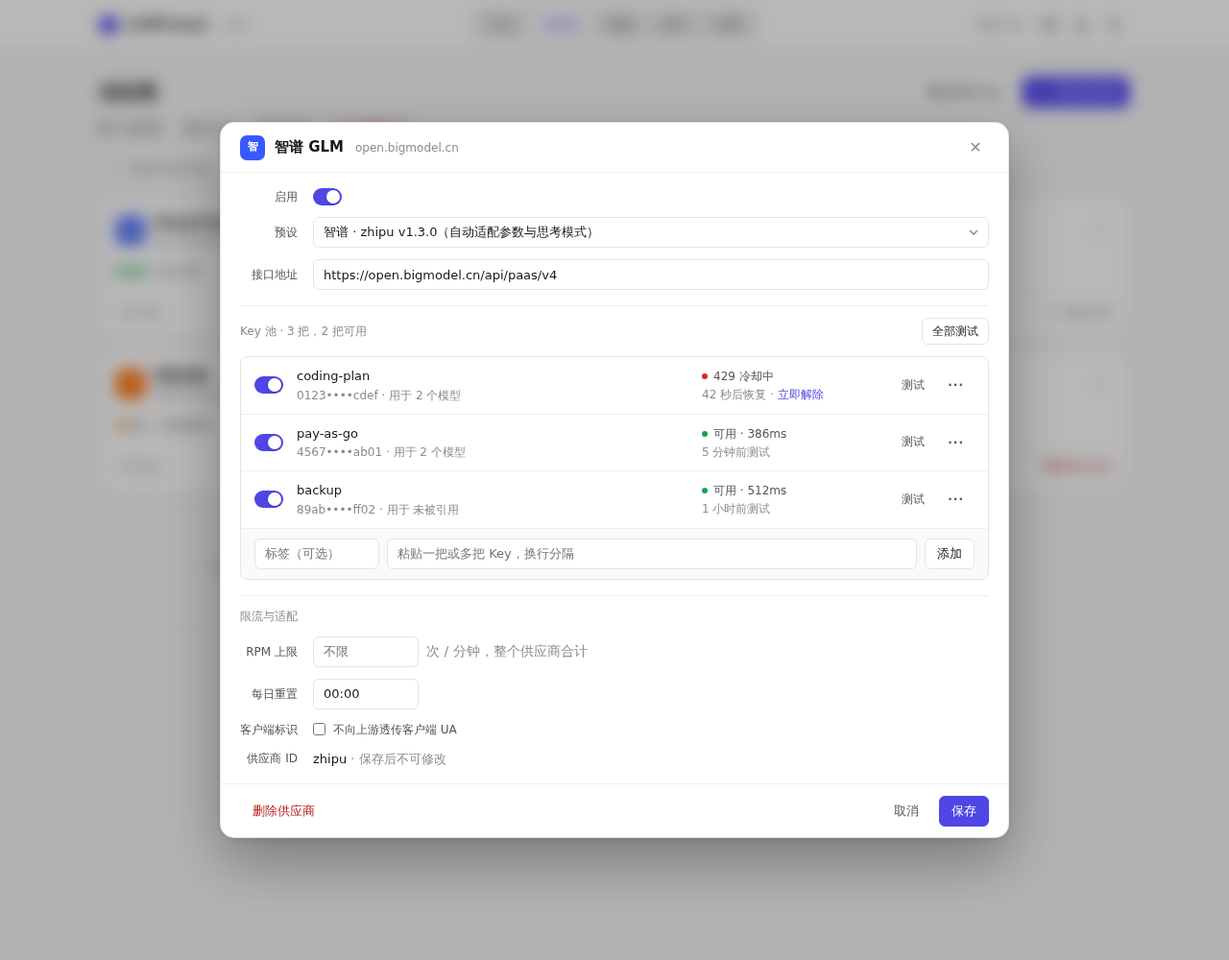
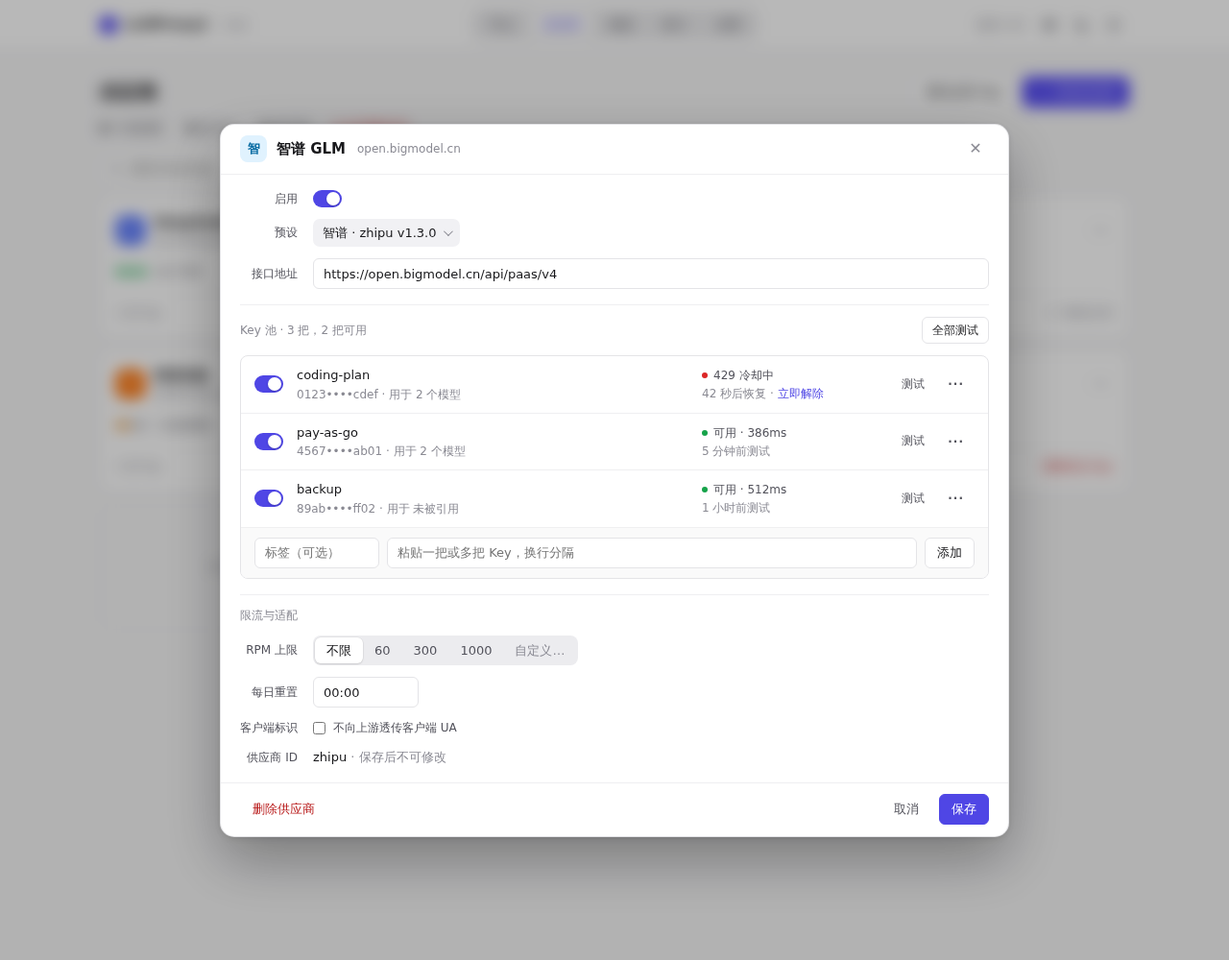
docs(ui): UI 规范 v2.1——首字头像、分组卡片、分段选择+自定义、胶囊下拉、悬停说明、验收清单

diff --git a/docs/ui-v2/mockups/01-providers.html b/docs/ui-v2/mockups/01-providers.html
@@ -2,20 +2,18 @@
 <header class="top"><div class="top-in"><div class="brand"><i></i>LLMProxy2<small>Hub</small></div>
 <nav class="tabs"><a class="">节点</a><a class="on">供应商</a><a class="">模型</a><a class="">统计</a><a class="">设置</a></nav>
 <div class="top-r"><span class="muted" style="margin-right:6px;font-size:12px">配置 v42</span><span class="ib"><svg viewBox="0 0 16 16" class=""><path d="M1.5 8s2.5-5 6.5-5 6.5 5 6.5 5-2.5 5-6.5 5S1.5 8 1.5 8z"/><circle cx="8" cy="8" r="2"/></svg></span><span class="ib"><svg viewBox="0 0 16 16" class=""><path d="M13 9.5A5.5 5.5 0 0 1 6.5 3a5.5 5.5 0 1 0 6.5 6.5z"/></svg></span><span class="ib"><svg viewBox="0 0 16 16" class=""><path d="M6 2.5H3.5v11H6M10 5l3 3-3 3M13 8H6"/></svg></span></div></div></header>
-<main class="wrap"><div class="ph"><h1>供应商<span class="cnt">12 个 · 22 把 Key · 19 把可用</span></h1><div class="acts"><span class="btn">测试全部 Key</span><span class="btn pri"><svg viewBox="0 0 16 16" class=""><path d="M8 3v10M3 8h10"/></svg>添加供应商</span></div></div>
-<div class="toolbar"><div class="search" style="width:340px"><svg viewBox="0 0 16 16" class=""><circle cx="7" cy="7" r="4.5"/><path d="M10.5 10.5L14 14"/></svg><input class="in" placeholder="搜索名称、地址或 Key 标签"><span class="kbd" style="position:absolute;right:8px;top:8px">/</span></div>
-<div class="filters"><span class="chip on">全部<b>12</b></span><span class="chip">需要处理<b>2</b></span><span class="chip">已停用<b>1</b></span></div>
-<span class="note" style="margin-left:auto">排序：问题优先 ▾</span></div>
-<div class="list"><div class="grp-h">需要处理 · 2</div><div class="row pv "><div><div class="nm"><span class="logo" style="background:#3859ff">智</span>智谱 GLM</div><div class="sub" style="padding-left:28px"><span class="why">coding-plan 429 冷却中，42 秒后恢复</span></div></div>
-<div class="kh"><span class="kdots"><i class="err"></i><i class="ok"></i><i class="ok"></i></span>2/3 可用</div><span class="st warn">部分异常</span><span class="cnt">2 个模型</span><svg viewBox="0 0 14 14" class="go"><path d="M5 3l4 4-4 4"/></svg></div><div class="row pv "><div><div class="nm"><span class="logo" style="background:#18181b">K</span>Kimi</div><div class="sub" style="padding-left:28px"><span class="why">还没有 Key，引用它的模型不会生效</span></div></div>
-<div class="kh"><span class="kdots"><i></i></span>0 把</div><span class="st err">无 Key</span><span class="cnt">0 个模型</span><svg viewBox="0 0 14 14" class="go"><path d="M5 3l4 4-4 4"/></svg></div><div class="grp-h">正常 · 9</div><div class="row pv "><div><div class="nm"><span class="logo" style="background:#ff6a00">百</span>阿里百炼</div><div class="sub" style="padding-left:28px">dashscope.aliyuncs.com</div></div>
-<div class="kh"><span class="kdots"><i class="ok"></i><i class="off"></i></span>1/2 可用</div><span class="st ok">正常</span><span class="cnt">2 个模型</span><svg viewBox="0 0 14 14" class="go"><path d="M5 3l4 4-4 4"/></svg></div><div class="row pv "><div><div class="nm"><span class="logo" style="background:#4d6bfe">D</span>DeepSeek</div><div class="sub" style="padding-left:28px">api.deepseek.com</div></div>
-<div class="kh"><span class="kdots"><i class="ok"></i><i class="ok"></i></span>2/2 可用</div><span class="st ok">正常</span><span class="cnt">3 个模型</span><svg viewBox="0 0 14 14" class="go"><path d="M5 3l4 4-4 4"/></svg></div><div class="row pv "><div><div class="nm"><span class="logo" style="background:#3370ff">火</span>火山方舟</div><div class="sub" style="padding-left:28px">ark.cn-beijing.volces.com</div></div>
-<div class="kh"><span class="kdots"><i class="ok"></i><i class="ok"></i><i class="ok"></i><i class="ok"></i></span>4/4 可用</div><span class="st ok">正常</span><span class="cnt">5 个模型</span><svg viewBox="0 0 14 14" class="go"><path d="M5 3l4 4-4 4"/></svg></div><div class="row pv "><div><div class="nm"><span class="logo" style="background:#7c3aed">硅</span>硅基流动</div><div class="sub" style="padding-left:28px">api.siliconflow.cn/v1</div></div>
-<div class="kh"><span class="kdots"><i class="ok"></i></span>1/1 可用</div><span class="st ok">正常</span><span class="cnt">1 个模型</span><svg viewBox="0 0 14 14" class="go"><path d="M5 3l4 4-4 4"/></svg></div><div class="row pv "><div><div class="nm"><span class="logo" style="background:#18181b">K</span>Kimi Code</div><div class="sub" style="padding-left:28px">api.kimi.com/coding</div></div>
-<div class="kh"><span class="kdots"><i class="ok"></i></span>1/1 可用</div><span class="st ok">正常</span><span class="cnt">1 个模型</span><svg viewBox="0 0 14 14" class="go"><path d="M5 3l4 4-4 4"/></svg></div><div class="row pv "><div><div class="nm"><span class="logo" style="background:#e11d48">M</span>MiniMax</div><div class="sub" style="padding-left:28px">api.minimaxi.com/anthropic</div></div>
-<div class="kh"><span class="kdots"><i class="ok"></i><i class="ok"></i></span>2/2 可用</div><span class="st ok">正常</span><span class="cnt">2 个模型</span><svg viewBox="0 0 14 14" class="go"><path d="M5 3l4 4-4 4"/></svg></div><div class="row pv "><div><div class="nm"><span class="logo" style="background:#0ea5e9">阶</span>阶跃星辰</div><div class="sub" style="padding-left:28px">api.stepfun.com/v1</div></div>
-<div class="kh"><span class="kdots"><i class="ok"></i></span>1/1 可用</div><span class="st ok">正常</span><span class="cnt">1 个模型</span><svg viewBox="0 0 14 14" class="go"><path d="M5 3l4 4-4 4"/></svg></div><div class="row pv "><div><div class="nm"><span class="logo" style="background:#111827">Z</span>Z.ai</div><div class="sub" style="padding-left:28px">api.z.ai/api/paas/v4</div></div>
-<div class="kh"><span class="kdots"><i class="ok"></i><i class="ok"></i></span>2/2 可用</div><span class="st ok">正常</span><span class="cnt">2 个模型</span><svg viewBox="0 0 14 14" class="go"><path d="M5 3l4 4-4 4"/></svg></div><div class="row pv "><div><div class="nm"><span class="logo" style="background:#f55036">G</span>Groq</div><div class="sub" style="padding-left:28px">api.groq.com/openai/v1</div></div>
-<div class="kh"><span class="kdots"><i class="ok"></i></span>1/1 可用</div><span class="st ok">正常</span><span class="cnt">0 个模型</span><svg viewBox="0 0 14 14" class="go"><path d="M5 3l4 4-4 4"/></svg></div><div class="grp-h">已停用 · 1</div><div class="row pv off"><div><div class="nm"><span class="logo" style="background:#6b7280">O</span>OpenRouter</div><div class="sub" style="padding-left:28px">openrouter.ai/api/v1</div></div>
+<main class="wrap"><div class="ph"><h1>供应商<span class="cnt">9 个 · 17 把 Key · 14 把可用</span></h1><div class="acts"><span class="btn">测试全部 Key</span><span class="btn pri"><svg viewBox="0 0 16 16" class=""><path d="M8 3v10M3 8h10"/></svg>添加供应商</span></div></div>
+<div class="toolbar"><div class="search" style="width:340px"><svg viewBox="0 0 16 16" class=""><circle cx="7" cy="7" r="4.5"/><path d="M10.5 10.5L14 14"/></svg><input class="in" placeholder="搜索名称、地址或 Key 标签"></div>
+<div class="segp" style="margin-left:auto"><span class="on">全部 9</span><span>需要处理 2</span><span>已停用 1</span></div></div>
+<div class="glabel">需要处理 · 2</div><div class="gcard"><div class="row pv pv2"><div class="nm"><span class="av av5 ">智</span><div class="meta"><span>智谱 GLM</span><span class="sub"><span class="why">coding-plan 429 冷却中，42 秒后恢复</span></span></div></div>
+<div class="kh"><span class="kdots"><i class="err"></i><i class="ok"></i><i class="ok"></i></span>2/3 可用</div><span class="st warn">部分异常</span><span class="cnt">2 个模型</span><svg viewBox="0 0 14 14" class="go"><path d="M5 3l4 4-4 4"/></svg></div><div class="row pv pv2"><div class="nm"><span class="av av7 ">K</span><div class="meta"><span>Kimi</span><span class="sub"><span class="why">还没有 Key，引用它的模型不会生效</span></span></div></div>
+<div class="kh"><span class="kdots"><i></i></span>0 把</div><span class="st err">无 Key</span><span class="cnt">0 个模型</span><svg viewBox="0 0 14 14" class="go"><path d="M5 3l4 4-4 4"/></svg></div></div>
+<div class="glabel">正常 · 6</div><div class="gcard"><div class="row pv pv2"><div class="nm"><span class="av av8 ">阿</span><div class="meta"><span>阿里百炼</span><span class="sub">dashscope.aliyuncs.com</span></div></div>
+<div class="kh"><span class="kdots"><i class="ok"></i><i class="off"></i></span>1/2 可用</div><span class="st ok">正常</span><span class="cnt">2 个模型</span><svg viewBox="0 0 14 14" class="go"><path d="M5 3l4 4-4 4"/></svg></div><div class="row pv pv2"><div class="nm"><span class="av av6 ">D</span><div class="meta"><span>DeepSeek</span><span class="sub">api.deepseek.com</span></div></div>
+<div class="kh"><span class="kdots"><i class="ok"></i><i class="ok"></i></span>2/2 可用</div><span class="st ok">正常</span><span class="cnt">3 个模型</span><svg viewBox="0 0 14 14" class="go"><path d="M5 3l4 4-4 4"/></svg></div><div class="row pv pv2"><div class="nm"><span class="av av1 ">火</span><div class="meta"><span>火山方舟</span><span class="sub">ark.cn-beijing.volces.com</span></div></div>
+<div class="kh"><span class="kdots"><i class="ok"></i><i class="ok"></i><i class="ok"></i><i class="ok"></i></span>4/4 可用</div><span class="st ok">正常</span><span class="cnt">5 个模型</span><svg viewBox="0 0 14 14" class="go"><path d="M5 3l4 4-4 4"/></svg></div><div class="row pv pv2"><div class="nm"><span class="av av6 ">硅</span><div class="meta"><span>硅基流动</span><span class="sub">api.siliconflow.cn/v1</span></div></div>
+<div class="kh"><span class="kdots"><i class="ok"></i></span>1/1 可用</div><span class="st ok">正常</span><span class="cnt">1 个模型</span><svg viewBox="0 0 14 14" class="go"><path d="M5 3l4 4-4 4"/></svg></div><div class="row pv pv2"><div class="nm"><span class="av av2 ">M</span><div class="meta"><span>MiniMax</span><span class="sub">api.minimaxi.com/anthropic</span></div></div>
+<div class="kh"><span class="kdots"><i class="ok"></i><i class="ok"></i></span>2/2 可用</div><span class="st ok">正常</span><span class="cnt">2 个模型</span><svg viewBox="0 0 14 14" class="go"><path d="M5 3l4 4-4 4"/></svg></div><div class="row pv pv2"><div class="nm"><span class="av av7 ">Z</span><div class="meta"><span>Z.ai</span><span class="sub">api.z.ai/api/paas/v4</span></div></div>
+<div class="kh"><span class="kdots"><i class="ok"></i><i class="ok"></i></span>2/2 可用</div><span class="st ok">正常</span><span class="cnt">2 个模型</span><svg viewBox="0 0 14 14" class="go"><path d="M5 3l4 4-4 4"/></svg></div></div>
+<div class="glabel">已停用 · 1</div><div class="gcard"><div class="row pv pv2 off"><div class="nm"><span class="av av3 off">O</span><div class="meta"><span>OpenRouter</span><span class="sub">openrouter.ai/api/v1</span></div></div>
 <div class="kh"><span class="kdots"><i class="off"></i></span>1 把</div><span class="st off">已停用</span><span class="cnt">0 个模型</span><svg viewBox="0 0 14 14" class="go"><path d="M5 3l4 4-4 4"/></svg></div></div></main></body></html>

diff --git a/docs/ui-v2/mockups/11-settings.html b/docs/ui-v2/mockups/11-settings.html
@@ -1,21 +1,24 @@
-<!doctype html><html lang="zh-CN"><head><meta charset="utf-8"><title>设置</title><link rel="stylesheet" href="v2.css"></head><body>
+<!doctype html><html lang="zh-CN"><head><meta charset="utf-8"><title>设置</title><link rel="stylesheet" href="v2.css"></head><body class="">
 <header class="top"><div class="top-in"><div class="brand"><i></i>LLMProxy2<small>Hub</small></div>
 <nav class="tabs"><a class="">节点</a><a class="">供应商</a><a class="">模型</a><a class="">统计</a><a class="on">设置</a></nav>
-<div class="top-r"><span class="mono muted" style="margin-right:6px">v42</span><span class="ib"><svg viewBox="0 0 16 16" class=""><path d="M1.5 8s2.5-5 6.5-5 6.5 5 6.5 5-2.5 5-6.5 5S1.5 8 1.5 8z"/><circle cx="8" cy="8" r="2"/></svg></span><span class="ib"><svg viewBox="0 0 16 16" class=""><path d="M13 9.5A5.5 5.5 0 0 1 6.5 3a5.5 5.5 0 1 0 6.5 6.5z"/></svg></span><span class="ib"><svg viewBox="0 0 16 16" class=""><path d="M6 2.5H3.5v11H6M10 5l3 3-3 3M13 8H6"/></svg></span></div></div></header>
-<main class="wrap"><div class="ph"><h1>设置</h1></div>
-<div class="set"><nav><a class="on">接入</a><a>路由与冷却</a><a>并发护栏</a><a>模型目录</a><a>备份与迁移</a></nav><div>
-<div class="grp"><h2>接入</h2><div class="list">
-<div class="srow"><div><div class="t">客户端密钥</div><div class="d">所有节点的 /v1/* 共用这一把；修改后旧密钥立即失效</div></div><div class="c"><input class="in mono w" value="sk-client-••••••••a91c"><span class="btn">生成</span></div></div>
-</div><div class="note" style="margin-top:8px">保存后在节点下次同步时生效（最长 24 小时，或在节点页手动触发）。</div></div>
-<div class="grp"><h2>路由与冷却</h2><div class="list">
-<div class="srow"><div><div class="t">默认分流策略</div><div class="d">新模型的默认值，可在模型里单独覆盖</div></div><div class="c"><div class="sel in" style="width:200px">会话粘性优先</div></div></div>
-<div class="srow"><div><div class="t">首字超时</div><div class="d">上游迟迟不出首字时换下一个来源</div></div><div class="c"><input class="in" value="120"><span class="muted">秒</span></div></div>
-<div class="srow"><div><div class="t">429 冷却</div><div class="d">被限流的 Key 暂停调度</div></div><div class="c"><input class="in" value="15"><span class="muted">秒</span></div></div>
-<div class="srow"><div><div class="t">5xx 冷却</div><div class="d">上游服务端错误后暂停</div></div><div class="c"><input class="in" value="30"><span class="muted">秒</span></div></div>
-<div class="srow"><div><div class="t">网络超时冷却</div><div class="d">连接或读取超时后暂停</div></div><div class="c"><input class="in" value="15"><span class="muted">秒</span></div></div>
-<div class="srow"><div><div class="t">401 / 403 冷却</div><div class="d">鉴权失败后封禁，0 = 不封禁</div></div><div class="c"><input class="in" value="86400"><span class="muted">秒</span></div></div>
-</div></div>
-<div class="grp"><h2>模型目录</h2><div class="list">
-<div class="srow"><div><div class="t">models.dev 目录</div><div class="d">1,286 个模型 · 更新于 2026-11-27 14:02</div></div><div class="c"><span class="btn">立即更新</span></div></div>
-</div></div></div></div>
+<div class="top-r"><span class="muted" style="margin-right:6px;font-size:12px">配置 v42</span><span class="ib"><svg viewBox="0 0 16 16" class=""><path d="M1.5 8s2.5-5 6.5-5 6.5 5 6.5 5-2.5 5-6.5 5S1.5 8 1.5 8z"/><circle cx="8" cy="8" r="2"/></svg></span><span class="ib"><svg viewBox="0 0 16 16" class=""><path d="M13 9.5A5.5 5.5 0 0 1 6.5 3a5.5 5.5 0 1 0 6.5 6.5z"/></svg></span><span class="ib"><svg viewBox="0 0 16 16" class=""><path d="M6 2.5H3.5v11H6M10 5l3 3-3 3M13 8H6"/></svg></span></div></div></header>
+<main class="wrap"><div class="ph"><h1>设置</h1></div><div class="set2"><nav><a class="on">接入</a><a>路由与冷却</a><a>并发护栏</a><a>模型目录</a><a>备份与迁移</a></nav><div>
+<div class="glabel">接入</div><div class="gcard">
+<div class="srow2"><div class="t">客户端密钥<span class="qi">?</span></div><div class="c"><input class="in" style="width:300px" value="sk-client-••••••••a91c"><span class="btn">生成</span></div></div>
+</div>
+<div class="glabel">路由与冷却</div><div class="gcard">
+<div class="srow2"><div class="t">默认分流策略<span class="qi">?</span></div><div class="c"><span class="pillsel">会话粘性优先</span></div></div>
+<div class="srow2"><div class="t">首字超时<span class="qi">?</span></div><div class="c"><div class="segp"><span class="">60 秒</span><span class="on">120 秒</span><span class="">300 秒</span><span class="cus">自定义…</span></div></div></div>
+<div class="srow2"><div class="t">429 限流冷却<span class="qi">?</span></div><div class="c"><div class="segp"><span class="on">15 秒</span><span class="">30 秒</span><span class="">60 秒</span><span class="cus">自定义…</span></div></div></div>
+<div class="srow2"><div class="t">5xx 冷却<span class="qi">?</span></div><div class="c"><div class="segp"><span class="">15 秒</span><span class="on">30 秒</span><span class="">60 秒</span><span class="cus">自定义…</span></div></div></div>
+<div class="srow2"><div class="t">网络超时冷却<span class="qi">?</span></div><div class="c"><div class="segp"><span class="on">15 秒</span><span class="">30 秒</span><span class="">60 秒</span><span class="cus">自定义…</span></div></div></div>
+<div class="srow2"><div class="t">401 / 403 封禁<span class="qi">?</span></div><div class="c"><div class="segp"><span class="">不封禁</span><span class="">1 小时</span><span class="on">1 天</span><span class="cus">自定义…</span></div></div></div>
+</div>
+<div class="glabel">并发护栏 · Lite 节点忽略</div><div class="gcard">
+<div class="srow2"><div class="t">OCR 预读并发<span class="qi">?</span></div><div class="c"><div class="segp"><span class="">2</span><span class="on">4</span><span class="">8</span><span class="cus">自定义…</span></div></div></div>
+<div class="srow2"><div class="t">固定通道并发<span class="qi">?</span></div><div class="c"><div class="segp"><span class="">8</span><span class="on">16</span><span class="">32</span><span class="cus">自定义…</span></div></div></div>
+</div>
+<div class="glabel">模型目录</div><div class="gcard">
+<div class="srow2"><div class="t">models.dev 目录</div><div class="c"><span class="note">1,286 个模型 · 2026-11-27 更新</span><span class="btn">立即更新</span></div></div>
+</div></div></div>
 <div class="savebar">2 项未保存<span class="btn">放弃</span><span class="btn pri">保存</span></div></main></body></html>

diff --git a/docs/ui-v2/mockups/02-provider-dialog.html b/docs/ui-v2/mockups/02-provider-dialog.html
@@ -11,9 +11,9 @@
 <div class="k"><span class="kdots"><i class="ok"></i></span>1/1 可用</div><div class="f"><span>1 把 Key</span><span>1 个模型在用</span></div></div><div class="pcard "><div class="h"><span class="logo" style="background:#ff6a00">百</span><div class="t"><div class="n">阿里百炼</div><div class="u">dashscope.aliyuncs.com</div></div><span class="ib more" style="width:24px;height:24px">···</span></div>
 <div class="k"><span class="kdots"><i class="warn"></i><i class="off"></i></span>1 把未测试</div><div class="f"><span>2 把 Key</span><span>2 个模型在用</span></div></div><div class="pcard off"><div class="h"><span class="logo" style="background:#6b7280">O</span><div class="t"><div class="n">OpenRouter</div><div class="u">openrouter.ai/api/v1</div></div><span class="ib more" style="width:24px;height:24px">···</span></div>
 <div class="k"><span class="kdots"><i class="off"></i></span>已停用</div><div class="f"><span>1 把 Key</span><span>0 个模型在用</span></div></div><div class="pcard alert"><div class="h"><span class="logo" style="background:#18181b">K</span><div class="t"><div class="n">Kimi</div><div class="u">api.moonshot.cn/v1</div></div><span class="ib more" style="width:24px;height:24px">···</span></div>
-<div class="k"><span class="kdots"><i></i></span>还没有 Key</div><div class="f"><span>0 把 Key</span><span class="w">需要添加 Key</span></div></div><div class="pcard add"><svg viewBox="0 0 16 16" class=""><path d="M8 3v10M3 8h10"/></svg> 从预设添加供应商</div></div><div class="modal"><div class="dialog roomy"><div class="dh"><span class="logo" style="background:#3859ff;width:26px;height:26px;border-radius:7px">智</span><b>智谱 GLM</b><span class="note">open.bigmodel.cn</span><span class="x">✕</span></div><div class="db">
+<div class="k"><span class="kdots"><i></i></span>还没有 Key</div><div class="f"><span>0 把 Key</span><span class="w">需要添加 Key</span></div></div><div class="pcard add"><svg viewBox="0 0 16 16" class=""><path d="M8 3v10M3 8h10"/></svg> 从预设添加供应商</div></div><div class="modal"><div class="dialog roomy"><div class="dh"><span class="av av5">智</span><b>智谱 GLM</b><span class="note">open.bigmodel.cn</span><span class="x">✕</span></div><div class="db">
 <label>启用</label><span class="sw on" style="justify-self:start"></span>
-<label>预设</label><div class="sel in">智谱 · zhipu v1.3.0（自动适配参数与思考模式）</div>
+<label>预设</label><span class="pillsel" style="justify-self:start">智谱 · zhipu v1.3.0</span>
 <label>接口地址</label><input class="in" value="https://open.bigmodel.cn/api/paas/v4">
 <div class="hr">Key 池 · 3 把，2 把可用<span class="btn sm">全部测试</span></div>
 <div class="full"><div class="klist">
@@ -25,7 +25,7 @@
 <div class="st2"><span class="st ok">可用 · 512ms</span><div class="s">1 小时前测试</div></div><div class="a"><span class="btn sm ghost">测试</span><span class="btn sm ghost more">···</span></div></div>
 <div class="kadd"><input class="in" style="width:130px" placeholder="标签（可选）"><input class="in" placeholder="粘贴一把或多把 Key，换行分隔"><span class="btn">添加</span></div></div></div>
 <div class="hr">限流与适配</div>
-<label>RPM 上限</label><div class="inline"><input class="in" style="width:110px" placeholder="不限"><span class="muted">次 / 分钟，整个供应商合计</span></div>
+<label>RPM 上限</label><div class="inline"><div class="segp"><span class="on">不限</span><span>60</span><span>300</span><span>1000</span><span class="cus">自定义…</span></div></div>
 <label>每日重置</label><input class="in" style="width:110px" value="00:00">
 <label>客户端标识</label><label class="inline" style="text-align:left"><input type="checkbox"> 不向上游透传客户端 UA</label>
 <label>供应商 ID</label><div class="val">zhipu <span class="muted">· 保存后不可修改</span></div></div><div class="df"><span class="btn ghost danger">删除供应商</span><span class="sp"></span><span class="btn ghost">取消</span><span class="btn pri">保存</span></div></div></div></main></body></html>

diff --git a/docs/ui-v2/mockups/12-settings-tooltip.html b/docs/ui-v2/mockups/12-settings-tooltip.html
@@ -1,0 +1,24 @@
+<!doctype html><html lang="zh-CN"><head><meta charset="utf-8"><title>设置</title><link rel="stylesheet" href="v2.css"></head><body class="">
+<header class="top"><div class="top-in"><div class="brand"><i></i>LLMProxy2<small>Hub</small></div>
+<nav class="tabs"><a class="">节点</a><a class="">供应商</a><a class="">模型</a><a class="">统计</a><a class="on">设置</a></nav>
+<div class="top-r"><span class="muted" style="margin-right:6px;font-size:12px">配置 v42</span><span class="ib"><svg viewBox="0 0 16 16" class=""><path d="M1.5 8s2.5-5 6.5-5 6.5 5 6.5 5-2.5 5-6.5 5S1.5 8 1.5 8z"/><circle cx="8" cy="8" r="2"/></svg></span><span class="ib"><svg viewBox="0 0 16 16" class=""><path d="M13 9.5A5.5 5.5 0 0 1 6.5 3a5.5 5.5 0 1 0 6.5 6.5z"/></svg></span><span class="ib"><svg viewBox="0 0 16 16" class=""><path d="M6 2.5H3.5v11H6M10 5l3 3-3 3M13 8H6"/></svg></span></div></div></header>
+<main class="wrap"><div class="ph"><h1>设置</h1></div><div class="set2"><nav><a class="on">接入</a><a>路由与冷却</a><a>并发护栏</a><a>模型目录</a><a>备份与迁移</a></nav><div>
+<div class="glabel">接入</div><div class="gcard">
+<div class="srow2"><div class="t">客户端密钥<span class="qi">?</span></div><div class="c"><input class="in" style="width:300px" value="sk-client-••••••••a91c"><span class="btn">生成</span></div></div>
+</div>
+<div class="glabel">路由与冷却</div><div class="gcard">
+<div class="srow2"><div class="t">默认分流策略<span class="qi">?</span></div><div class="c"><span class="pillsel">会话粘性优先</span></div></div>
+<div class="srow2"><div class="t">首字超时<span class="qi">?</span></div><div class="c"><div class="segp"><span class="">60 秒</span><span class="on">120 秒</span><span class="">300 秒</span><span class="cus">自定义…</span></div></div></div>
+<div class="tipwrap"><div class="srow2"><div class="t">429 限流冷却<span class="qi">?</span></div><div class="c"><div class="segp"><span class="on">15 秒</span><span class="">30 秒</span><span class="">60 秒</span><span class="cus">自定义…</span></div></div></div><div class="tip" style="left:120px;top:44px"><b>429 限流冷却</b>Key 被上游限流（HTTP 429）后暂停调度的时长。期间同一模型改用其它 Key 或来源；到期自动恢复，也可以在供应商里当场解除。</div></div>
+<div class="srow2"><div class="t">5xx 冷却<span class="qi">?</span></div><div class="c"><div class="segp"><span class="">15 秒</span><span class="on">30 秒</span><span class="">60 秒</span><span class="cus">自定义…</span></div></div></div>
+<div class="srow2"><div class="t">网络超时冷却<span class="qi">?</span></div><div class="c"><div class="segp"><span class="on">15 秒</span><span class="">30 秒</span><span class="">60 秒</span><span class="cus">自定义…</span></div></div></div>
+<div class="srow2"><div class="t">401 / 403 封禁<span class="qi">?</span></div><div class="c"><div class="segp"><span class="">不封禁</span><span class="">1 小时</span><span class="on">1 天</span><span class="cus">自定义…</span></div></div></div>
+</div>
+<div class="glabel">并发护栏 · Lite 节点忽略</div><div class="gcard">
+<div class="srow2"><div class="t">OCR 预读并发<span class="qi">?</span></div><div class="c"><div class="segp"><span class="">2</span><span class="on">4</span><span class="">8</span><span class="cus">自定义…</span></div></div></div>
+<div class="srow2"><div class="t">固定通道并发<span class="qi">?</span></div><div class="c"><div class="segp"><span class="">8</span><span class="on">16</span><span class="">32</span><span class="cus">自定义…</span></div></div></div>
+</div>
+<div class="glabel">模型目录</div><div class="gcard">
+<div class="srow2"><div class="t">models.dev 目录</div><div class="c"><span class="note">1,286 个模型 · 2026-11-27 更新</span><span class="btn">立即更新</span></div></div>
+</div></div></div>
+</main></body></html>

diff --git a/docs/ui-v2/mockups/v2.css b/docs/ui-v2/mockups/v2.css
@@ -279,3 +279,47 @@ details.fold .fb>label{font-size:12px;color:var(--fg-2);text-align:right;white-s
 .kchips .ord{font-size:11px;background:var(--accent);color:#fff;border-radius:3px;padding:0 4px}
 .secline{grid-column:1/-1;font-size:12px;color:var(--muted);font-weight:500;border-top:1px solid var(--line-2);padding-top:12px;margin-top:2px}
 .secline:first-child{border-top:0;padding-top:0;margin-top:0}
+/* ---- round 7: avatar palette, magpie groups, segmented, pill select, tooltip ---- */
+:root{
+ --av-1-bg:#e0e7ff;--av-1-fg:#4338ca; --av-2-bg:#dcfce7;--av-2-fg:#15803d;
+ --av-3-bg:#ffedd5;--av-3-fg:#c2410c; --av-4-bg:#fce7f3;--av-4-fg:#be185d;
+ --av-5-bg:#e0f2fe;--av-5-fg:#0369a1; --av-6-bg:#f3e8ff;--av-6-fg:#7e22ce;
+ --av-7-bg:#fef9c3;--av-7-fg:#a16207; --av-8-bg:#ccfbf1;--av-8-fg:#0f766e;
+ --seg-track:#ececef;--pill:#f1f1f4;
+}
+.av{width:28px;height:28px;border-radius:8px;display:grid;place-items:center;font-size:13px;font-weight:600;flex:none}
+.av.sm{width:22px;height:22px;border-radius:6px;font-size:11px}
+.av.off{filter:grayscale(1);opacity:.6}
+.av1{background:var(--av-1-bg);color:var(--av-1-fg)}.av2{background:var(--av-2-bg);color:var(--av-2-fg)}
+.av3{background:var(--av-3-bg);color:var(--av-3-fg)}.av4{background:var(--av-4-bg);color:var(--av-4-fg)}
+.av5{background:var(--av-5-bg);color:var(--av-5-fg)}.av6{background:var(--av-6-bg);color:var(--av-6-fg)}
+.av7{background:var(--av-7-bg);color:var(--av-7-fg)}.av8{background:var(--av-8-bg);color:var(--av-8-fg)}
+.glabel{font-size:12px;color:var(--muted);margin:18px 4px 8px;display:flex;gap:6px}
+.glabel:first-child{margin-top:0}
+.gcard{background:var(--surface);border:1px solid var(--line);border-radius:12px;overflow:hidden}
+.gcard .row{border-top:1px solid var(--line-2)}.gcard .row:first-child{border-top:0}
+.row.pv2{grid-template-columns:minmax(0,1fr) 160px 104px 96px 20px;padding:12px 18px}
+.row.pv2 .nm{gap:12px}
+.row.pv2 .meta{display:flex;flex-direction:column;min-width:0}
+.row.pv2 .sub{padding-left:0}
+.segp{display:inline-flex;background:var(--seg-track);border-radius:8px;padding:2px;gap:0}
+.segp span{font-size:13px;padding:4px 12px;border-radius:6px;color:var(--fg-2);white-space:nowrap}
+.segp span.on{background:var(--surface);color:var(--fg);box-shadow:0 1px 2px rgba(0,0,0,.12),0 0 0 .5px rgba(0,0,0,.06)}
+.segp span.cus{color:var(--muted)}
+.pillsel{display:inline-flex;align-items:center;gap:6px;background:var(--pill);border-radius:7px;padding:5px 10px;font-size:13px;color:var(--fg)}
+.pillsel:after{content:"";width:6px;height:6px;border:solid var(--muted);border-width:0 1.5px 1.5px 0;transform:rotate(45deg) translateY(-2px);margin-left:2px}
+.srow2{display:flex;align-items:center;gap:16px;padding:14px 20px;border-top:1px solid var(--line-2);min-height:56px}
+.srow2:first-child{border-top:0}
+.srow2 .t{flex:1;font-size:14px;display:flex;align-items:center;gap:6px}
+.srow2 .c{display:flex;gap:8px;align-items:center}
+.qi{width:15px;height:15px;border-radius:50%;border:1px solid var(--faint);color:var(--muted);font-size:10px;display:inline-grid;place-items:center}
+.tipwrap{position:relative}
+.tip{position:absolute;z-index:9;width:340px;background:var(--surface);border-radius:10px;box-shadow:var(--pop-shadow);padding:10px 12px;font-size:12px;line-height:1.6;color:var(--fg-2)}
+.tip b{display:block;color:var(--fg);font-weight:500;margin-bottom:2px}
+.set2{display:grid;grid-template-columns:160px minmax(0,1fr);gap:32px}
+.set2 nav{position:sticky;top:80px;align-self:start}
+.set2 nav a{display:block;font-size:13px;color:var(--fg-2);padding:6px 10px;border-radius:6px}
+.set2 nav a.on{background:var(--accent-soft);color:var(--accent);font-weight:500}
+.in.short{width:120px}
+.tipwrap .srow2{border-top:1px solid var(--line-2)}
+.list{border-radius:12px}

diff --git a/docs/ui-v2/mockups/09-node-dialog.html b/docs/ui-v2/mockups/09-node-dialog.html
@@ -5,8 +5,9 @@
 <main class="wrap"><div class="ph"><h1>节点<span class="cnt">4 个 · 2 在线</span></h1><div class="acts"><span class="btn pri"><svg viewBox="0 0 16 16" class=""><path d="M8 3v10M3 8h10"/></svg>添加节点</span></div></div>
 <div class="list"><div class="row click"><div><div class="nm">tokyo-lite-01</div><div class="sub">Lite · 203.0.113.10 · 3 分钟前同步</div></div><span class="st ok">在线</span><span class="cnt">128 次同步</span><svg viewBox="0 0 14 14" class="go"><path d="M5 3l4 4-4 4"/></svg></div><div class="row click"><div><div class="nm">hk-full</div><div class="sub">Full · 198.51.100.7 · 30 小时前同步</div></div><span class="st warn">离线</span><span class="cnt">12 次同步</span><svg viewBox="0 0 14 14" class="go"><path d="M5 3l4 4-4 4"/></svg></div><div class="row click"><div><div class="nm">sg-test</div><div class="sub">Lite · 从未同步</div></div><span class="st off">待安装</span><span class="cnt">—</span><svg viewBox="0 0 14 14" class="go"><path d="M5 3l4 4-4 4"/></svg></div><div class="row click"><div><div class="nm">old-vm</div><div class="sub">Lite · 11-20 已吊销</div></div><span class="st err">已吊销</span><span class="cnt">4 次同步</span><svg viewBox="0 0 14 14" class="go"><path d="M5 3l4 4-4 4"/></svg></div></div><div class="modal"><div class="dialog"><div class="dh"><b>tokyo-lite-01</b><span class="note"><span class="st ok">在线</span></span><span class="x">✕</span></div><div class="db">
 <label>名称</label><input class="in" value="tokyo-lite-01">
-<label>角色</label><div class="seg3"><span class="on">Lite · 纯内存代理</span><span>Full · 带控制台</span></div>
-<label>租约</label><div class="inline"><input class="in" style="width:90px" value="24"><span class="muted">小时，宽限</span><input class="in" style="width:90px" value="1"><span class="muted">小时</span></div>
+<label>角色</label><div class="segp" style="justify-self:start"><span class="on">Lite · 纯内存代理</span><span>Full · 带控制台</span></div>
+<label>租约</label><div class="segp" style="justify-self:start"><span>1 小时</span><span>6 小时</span><span class="on">24 小时</span><span class="cus">自定义…</span></div>
+<label>宽限</label><div class="segp" style="justify-self:start"><span>无</span><span class="on">1 小时</span><span>6 小时</span><span class="cus">自定义…</span></div>
 <label>供应商范围</label><div class="chips"><span class="on">全部</span><span>DeepSeek</span><span>智谱 GLM</span><span>Kimi</span><span>OpenRouter</span></div>
 <label>模型范围</label><div class="chips"><span class="on">全部</span><span>deepseek-chat</span><span>glm-4.6</span><span>kimi-k2</span></div>
 <div class="hr">运行状态<span>3 分钟前同步</span></div>

diff --git a/docs/ui-v2/mockups/06-add-model.html b/docs/ui-v2/mockups/06-add-model.html
@@ -7,7 +7,7 @@
 <div class="secline">来源</div>
 <label style="font-size:12px;color:var(--fg-2);text-align:right;white-space:nowrap">供应商</label><div class="sel in" style="display:flex;align-items:center;gap:8px"><span class="logo" style="background:#4d6bfe;width:18px;height:18px">D</span>DeepSeek<span class="note" style="margin-left:auto;margin-right:8px">2 把 Key 可用</span></div>
 <label style="font-size:12px;color:var(--fg-2);text-align:right;white-space:nowrap">Key</label><div><div class="kchips"><span>任一可用</span><span class="on"><i class="ord">1</i>main<i class="dot ok"></i></span><span class="on"><i class="ord">2</i>backup<i class="dot"></i></span>
-<span class="seg3" style="margin-left:8px"><span class="on">主备</span><span>轮询</span></span></div>
+<span class="segp" style="margin-left:8px"><span class="on">主备</span><span>轮询</span></span></div>
 <div class="help">按点选顺序生成 2 个来源；main 冷却或失败时切到 backup。不选具体 Key 即「任一可用」。</div></div>
 <div class="secline">模型</div>
 <div class="full"><div class="mlistbox"><div class="tool"><div class="search" style="flex:1"><svg viewBox="0 0 16 16" class=""><circle cx="7" cy="7" r="4.5"/><path d="M10.5 10.5L14 14"/></svg><input class="in" placeholder="筛选 DeepSeek 的 4 个上游模型"></div><span class="note">刚刚拉取</span><span class="btn sm ghost">重新拉取</span><span class="btn sm ghost">手动填写</span></div>

diff --git a/docs/ui-v2/mockups/07-add-model-advanced.html b/docs/ui-v2/mockups/07-add-model-advanced.html
@@ -7,7 +7,7 @@
 <div class="secline">来源</div>
 <label style="font-size:12px;color:var(--fg-2);text-align:right;white-space:nowrap">供应商</label><div class="sel in" style="display:flex;align-items:center;gap:8px"><span class="logo" style="background:#4d6bfe;width:18px;height:18px">D</span>DeepSeek<span class="note" style="margin-left:auto;margin-right:8px">2 把 Key 可用</span></div>
 <label style="font-size:12px;color:var(--fg-2);text-align:right;white-space:nowrap">Key</label><div><div class="kchips"><span>任一可用</span><span class="on"><i class="ord">1</i>main<i class="dot ok"></i></span><span class="on"><i class="ord">2</i>backup<i class="dot"></i></span>
-<span class="seg3" style="margin-left:8px"><span class="on">主备</span><span>轮询</span></span></div>
+<span class="segp" style="margin-left:8px"><span class="on">主备</span><span>轮询</span></span></div>
 <div class="help">按点选顺序生成 2 个来源；main 冷却或失败时切到 backup。不选具体 Key 即「任一可用」。</div></div>
 <div class="secline">模型</div>
 <div class="full"><div class="mlistbox"><div class="tool"><div class="search" style="flex:1"><svg viewBox="0 0 16 16" class=""><circle cx="7" cy="7" r="4.5"/><path d="M10.5 10.5L14 14"/></svg><input class="in" placeholder="筛选 DeepSeek 的 4 个上游模型"></div><span class="note">刚刚拉取</span><span class="btn sm ghost">重新拉取</span><span class="btn sm ghost">手动填写</span></div>

diff --git a/docs/UI_DESIGN_SPEC.md b/docs/UI_DESIGN_SPEC.md
@@ -1,108 +1,91 @@
-# 控制台 UI 规范（v2）
+# 控制台 UI 规范（v2.1）
 
-> 适用：`shared/admin/` 这一份源码，同时服务 Hub 与 Full。效果图在 [`docs/ui-v2/mockups/`](./ui-v2/mockups/)，
-> 打开 `.html` 即可看（`v2.css` 是参考样式，不是生产代码）。规范与效果图冲突时以本文为准。
+> 适用：`shared/admin/` 这一份源码，同时服务 Hub 与 Full。
+> **效果图是外观的唯一标准**：[`docs/ui-v2/mockups/`](./ui-v2/mockups/)，浏览器直接打开 `.html`。实现要和效果图一眼看上去一致；本文管结构、交互和不能做的事。
+> 数值（颜色、尺寸、间距、字号）只在 `shared/admin/css/app.css` 的 `:root` 定义；组件里只用 `var()`。效果图的 `v2.css` 和 `app.css :root` 用同一套数值，二者不一致时改成一致，不另起一套。
 
 ## 1. 原则
 
-1. **简约**：灰阶表面 + 一个主色（蓝）。主色只用于主按钮、选中态、链接；状态只用圆点颜色表达。
-2. **列表负责找，弹框负责改**：列表行不展开、不折叠；点行打开弹框编辑。
-3. **一个窗口做完一件事**：弹框内不做步骤导航；内容多时分节，次要项放进「高级设置」折叠。
-4. **数值不写死**：尺寸、颜色、间距、圆角、字号全部来自 `app.css` 顶部 `:root` 的 token。本文只写 token 名和相对关系，不写像素值；JS 与 HTML 里不得出现尺寸数字。
-5. **系统默认字体**：不使用等宽字体；数字列用 `font-variant-numeric: tabular-nums` 对齐。
-6. **只用现有数据**：界面不得引入后端没有的字段。需要新字段，先改契约（见 `AGENTS.md` §5）。
+1. **简约但不发白**：页面底是浅灰，内容放在圆角白卡片里；分组标题写在卡片外面（灰色小字）。不用阴影堆层次，只有弹框、浮层、提示有阴影。
+2. **列表负责找，弹框负责改**：列表行不展开、不折叠；点行打开弹框。
+3. **一个窗口做完一件事**：弹框内不分步；内容多时分节，次要项放进「高级设置」折叠（全站唯一允许折叠的地方）。
+4. **能选就不让填**：有常用值的设置用分段选择 + 「自定义…」；有固定选项的用胶囊下拉。只有自由文本（地址、Key、名称）才用输入框。
+5. **说明不常驻**：标签旁一个「?」，悬停或聚焦时弹出说明。行内只留标签本身。
+6. **系统默认字体**，不用等宽字体；数字用 `tabular-nums`。
+7. **只用现有数据**：不得引入后端没有的字段；要新字段先改契约（`AGENTS.md` §5）。
+8. **不自行增减功能**：效果图和本文没有的控件不要加（例如 Key 表里的权重框），有的不要省（例如供应商行的健康条）。
 
-## 2. Token（在 `app.css :root` 定义，一处定义）
+## 2. 组件（外观以效果图为准）
 
-| 类别 | Token | 说明 |
+| 组件 | 用途与规则 | 效果图 |
 |---|---|---|
-| 表面 | `--bg` `--surface` `--surface-2` `--hover` | 页面底、卡片/列表、弹框内次级底、悬停 |
-| 线 | `--line` `--line-2` | 外框、内部分隔线（更浅） |
-| 文字 | `--fg` `--fg-2` `--muted` `--faint` | 正文、次要、说明、禁用 |
-| 主色 | `--accent` `--accent-soft` `--accent-fg` | 蓝（取 magpie 靛蓝）；soft 用于选中底色 |
-| 状态 | `--ok` `--warn` `--err` `--off` | 只给圆点和极少量文字用 |
-| 尺寸 | `--ctl-h` `--ctl-h-sm` `--r-ctl` `--r-box` `--r-dialog` | 控件高、紧凑控件高、控件圆角、容器圆角、弹框圆角 |
-| 间距 | `--gap-1` … `--gap-6` | 一套等比间距，所有 margin / padding / gap 只取这些 |
-| 字号 | `--fs-title` `--fs-body` `--fs-ctl` `--fs-note` | 页面标题、正文、控件、说明，共四档 |
-| 布局 | `--page-max` `--dialog-w` `--dialog-w-wide` | 页面最大宽、弹框宽、宽弹框宽 |
+| 分组卡片 | 灰色组标题在卡片外；卡片内是行，行间细线。列表与设置都用它 | 01、11 |
+| 列表行 | 只能由 `listRow()` 生成。列：头像 + 名称 / 次要信息 ｜ 附加列（可选）｜ 状态 ｜ 计数 ｜ 右箭头。各列宽度用 token，全站对齐。问题行的次要信息写原因（`--err` 色） | 01、04、08 |
+| 首字头像 | 供应商不用 logo。取名称首字，按名称哈希从 8 组头像色（`--av-1-bg/fg` … `--av-8-bg/fg`，在 `:root`）中取一组；停用时灰度显示。同名永远同色 | 01、02 |
+| Key 健康条 | 每把 Key 一小段横条，颜色同状态色，后跟「N/M 可用」 | 01 |
+| 分段选择 | 灰色轨道 + 白色选中块。设置类数值给 3–4 个常用值，最后一段「自定义…」：点它把该段变成输入框，回车或失焦确认；当前值不在预设里时「自定义」段显示这个值并处于选中态 | 11 |
+| 胶囊下拉 | 浅灰底圆角 + 右侧小箭头，点开是浮层菜单。禁止浏览器原生 `<select>` 外观 | 02、11 |
+| 说明提示 | 标签旁「?」；悬停 / 聚焦显示白色浮层（标题 + 说明），离开消失；点击不跳转 | 12 |
+| 开关 | 启用 / 停用。复选框只用于多选 | 02 |
+| 芯片 | 多选与范围选择，选中为主色浅底 + 主色字 | 06、09 |
+| 弹框 | 遮罩加模糊、居中。头（头像 / 标题 / 副信息 / 关闭）、体（唯一滚动区，左标签右控件）、尾（左危险或测试，右取消 + 主按钮）。**宽版**：供应商详情、添加供应商、编辑模型、添加模型；**窄版**：节点详情、确认框、一次性材料 | 02、03、05、06、09 |
+| 保存浮条 | 设置页有改动时底部浮出「N 项未保存 · 放弃 · 保存」 | 11 |
 
-暗色主题只覆盖颜色 token，不覆盖尺寸 token。删除旧的 `--khc-*` token，不保留别名。
+其它：主按钮一个区域最多一个；时间统一 `fmtTime()`（刚刚 / N 分钟前 / 日期）；空状态一句话 + 一个主按钮。
 
-## 3. 页面骨架
+## 3. 页面
 
-- **顶栏**：左侧品牌 + 端标识（Hub / Full，灰字）；中间分段导航；右侧配置版本、隐私遮罩、主题、退出。
-- **导航**：Hub 为 节点 / 供应商 / 模型 / 统计 / 设置；Full 为 概览 / 供应商 / 模型 / 接入信息 / 设置。
-- **页头**：标题 + 灰色计数摘要（如「12 个 · 22 把 Key · 19 把可用」）；右侧最多一个主按钮，其余为普通按钮。不写副标题。
-- **工具条**（列表多于一屏时才出现）：搜索框 + 筛选芯片（全部 / 需要处理 / 已停用，带数量）。
+导航顺序固定：Hub 为 **节点 / 供应商 / 模型 / 统计 / 设置**；Full 为 **概览 / 供应商 / 模型 / 接入信息 / 设置**。
 
-## 4. 组件
+### 3.1 供应商（01–03）
 
-### 4.1 列表行（全站唯一写法）
+- 页头：标题 + 灰色摘要（个数 · Key 数 · 可用数）；右侧「测试全部 Key」+「添加供应商」。
+- 工具条：搜索（名称、地址、Key 标签）+ 右侧分段筛选（全部 / 需要处理 / 已停用，带数量）。
+- 列表按「需要处理 / 正常 / 已停用」分三张分组卡片，问题优先。行：首字头像、名称、地址或原因｜Key 健康条｜状态｜「N 个模型」｜箭头。
+- 详情弹框（宽）：启用开关、预设（胶囊下拉）、接口地址 → Key 池（开关｜标签 + 掩码 + 被引用数｜状态 + 最近测试，冷却中给「立即解除」｜测试 ···），下方一行粘贴添加 → 限流与适配：RPM 上限（分段：不限 / 60 / 300 / 1000 / 自定义）、每日重置、客户端 UA、供应商 ID（只读）。
+- 添加供应商弹框（宽）：搜索 + 预设网格 + 「自定义」；选中后出现名称、地址、Key；主按钮「添加并测试」。
 
-- 只能由一个生成函数 `listRow({ title, sub, status, count, logo?, onOpen })` 产生；其它地方不得手写 `.row`。T1 增加测试：除该函数外，源码中出现 `className = 'row` / `class="row` 即失败。
-- 列固定为：**名称 + 次要信息** | **状态** | **计数** | **右箭头**。状态和计数列宽由 token 决定，所有页面对齐。
-- 状态 = 圆点 + 一个词。次要信息一行，超长省略。出问题的行，次要信息直接写原因（`--err` 色文字）。
-- 行可点，悬停变 `--hover`，没有展开态、没有 chevron 旋转。
-- 分组：需要时用组标题行（如「需要处理 · 2 / 正常 · 9 / 已停用 · 1」），问题优先排序。
+### 3.2 模型（04–07）
 
-### 4.2 弹框（magpie 规范）
+- 列表：模型名｜首选来源（供应商 · 上游模型，多来源加「另有 N 个备用」）｜状态｜「N 个来源」。
+- 添加模型（宽，一个窗口，不能在此新建供应商）：
+  1. 来源：供应商胶囊下拉（只列启用且有 Key 的）；Key 芯片默认「任一可用」，点具体 Key 显示序号，全取消回到「任一可用」；≥2 把出现分段「主备 / 轮询」（`sticky_failover` / `round_robin`）；下方一行灰字说明会生成什么。
+  2. 模型：上游列表，带筛选、固定高度内滚动、可多选；已存在的标「已添加」并禁用；「重新拉取」「手动填写」。
+  3. 对外模型名（多选时每个模型一行；同名提示「将作为它的备用来源」）、思考档位（仅支持思考的模型）。
+  4. 高级设置（折叠）：Key 回退（仅指定 Key 时）、剥离思考、强制非流式、并发上限、权重（仅轮询时）。
+  5. 尾部：「测试」+ 摘要「已选 N 个模型 · 将生成 M 个来源」；取消 / 添加模型。测试期间禁用保存。
+- 编辑模型（宽）：对外模型名、分流策略（胶囊下拉）→ 来源表（拖动排序｜供应商｜上游模型｜Key｜状态｜测试 ···）+「添加来源」→ 高级折叠。
 
-- 遮罩半透明加模糊；弹框居中，圆角 `--r-dialog`，宽 `--dialog-w`，内容多时用 `--dialog-w-wide`。
-- 结构固定：**头**（标题 + 可选图标/状态 + 关闭）、**体**（唯一滚动区）、**尾**（左：危险操作或测试；右：取消 + 主按钮）。头尾不随内容滚动。
-- 体内是两列表单：左列标签右对齐，右列控件。整行内容（表格、列表）跨两列。
-- 分节：细线 + 小号灰色节标题，不用卡片套卡片。
-- 「高级设置」用 `<details>` 折叠，默认收起；这是全站唯一允许的折叠位置。
-- `Esc`、点遮罩、点关闭都会关闭；有未保存改动时先 `confirmDialog()`。弹框不嵌套（确认框除外）。
-- 统一入口：`openDialog()` / `closeDialog()` / `confirmDialog()`，禁止原生 `confirm()` / `alert()`。
+### 3.3 节点（08–09）
 
-### 4.3 其它
+- 列表：名称｜角色 · IP · 最近同步｜状态（在线 / 离线 / 宽限期内 / 待安装 / 已吊销）｜同步次数。
+- 详情（窄）：名称、角色（分段）、租约（分段：1 小时 / 6 小时 / 24 小时 / 自定义）、宽限、供应商与模型范围（芯片）→ 运行状态（只读）。尾：左吊销 / 删除，右安装命令 / 轮换 Token / 保存。
 
-- **按钮**：主按钮（`--accent` 实心）、普通、文字、危险（文字为 `--err`）。一个弹框或页头最多一个主按钮。
-- **开关**：启用/停用用开关，不用复选框。复选框只用于多选。
-- **芯片**：用于多选或筛选，选中用 `--accent-soft` 底 + `--accent` 字。
-- **数据表**：仅在弹框内用于子项（Key、来源）。表头灰字无底色；操作列右对齐，最多「测试」+「···」。
-- **时间**：统一走 `fmtTime()`：一分钟内「刚刚」，七天内「N 分钟/小时/天前」，更早显示日期。禁止浏览器默认格式。
-- **空状态**：一句话 + 一个主按钮。
-- **保存**：设置页有改动时底部浮出保存条（「N 项未保存 · 放弃 · 保存」），无改动时不显示。
+### 3.4 统计（10）、设置（11–12）
 
-## 5. 页面口径
+- 统计：指标带 + 「模型使用分布」「节点分布」两张表，页头注明数据更新时间。
+- 设置：左侧锚点导航；右侧分组卡片，每行「标签 + ?｜控件」。冷却、超时、并发一律分段选择 + 自定义；分流策略用胶囊下拉；说明全部进提示浮层，不留常驻说明文字和提示框。
 
-### 5.1 供应商（效果图 01–03）
+### 3.5 Full 独有页
 
-- 列表：logo + 名称；次要信息 = 预设版本 · 地址（异常时改为原因）；中间一列 **Key 健康条**（每把 Key 一小段，颜色同状态）+「N/M 可用」；状态；「被 N 个模型使用」。
-- 详情弹框（宽）：启用开关、预设、接口地址 → **Key 池**（开关 / 标签 + 掩码 + 被引用数 / 状态 + 最近测试时间 / 测试 ···）。冷却中的 Key 在状态下方给「立即解除」。表格下方一行粘贴框，可一次粘贴多把（换行分隔）→ 高级：RPM 上限、每日重置、客户端 UA、供应商 ID（只读）。尾：左删除，右取消/保存。
-- 添加供应商弹框：搜索 + 预设网格（logo、名称、协议）+ 末尾「自定义」；选中后下方出现名称、地址、Key；尾部主按钮「添加并测试」，左下「粘贴 cURL」。
+概览、接入信息沿用同样的分组卡片、分段、胶囊下拉与提示规则。
 
-### 5.2 模型（效果图 04–07）
+## 4. 落地与验收
 
-- 列表：模型名；次要信息 = 首选来源（供应商 · 上游模型），多来源时加「另有 N 个备用」；状态；「N 个来源」。
-- **添加模型**（一个窗口，不分步，不能在此新建供应商）：
-  1. 来源：供应商下拉（只列启用且有 Key 的，显示可用 Key 数）。Key 用芯片：默认「任一可用」；点具体 Key 即取消「任一可用」，芯片显示点选序号；全部取消则回到「任一可用」；停用的 Key 不显示，冷却中的标黄可选。选了 2 把以上时出现「主备 / 轮询」分段（主备 = `sticky_failover`，轮询 = `round_robin`，写入路由的 `routing_strategy`）。下方一行灰字实时说明会生成什么。
-  2. 模型：上游模型列表（带筛选、固定高度内滚动、复选可多选）；能力标签取 models.dev 目录，没有就不显示；已存在的标「已添加」并禁用；右上「重新拉取」「手动填写」（手动支持多个，换行分隔）；拉取失败只显示一句原因 + 手动填写。
-  3. 对外模型名：选一个模型时为一个输入框，默认等于上游 ID；选多个时变为每个模型一行。与现有模型同名不报错，提示「将作为它的备用来源」，保存时并入。
-  4. 思考档位：只在目录标记支持思考时出现，默认「跟随客户端」。
-  5. 高级设置（折叠）：Key 回退（仅指定 Key 时出现，对应 `allow_key_fallback`，文案说明是 Key 被停用或删除时生效）、剥离思考、强制非流式、并发上限、权重（仅轮询时出现）。
-  6. 尾部：左「测试」+ 摘要「已选 N 个模型 · 将生成 M 个来源」；右取消 / 添加模型。测试用第一个来源真实发一句「你好」，结果卡显示在体底部；测试期间禁用保存（沿用配置版本冲突纪律）。测试不是保存前提。
-  7. 换供应商会清空已选 Key 和模型，已选模型时先确认。
-  8. 保存成功：关闭弹框，列表滚到新行并短暂高亮。
-- 编辑模型弹框：对外模型名、分流策略 → 来源表（拖动把手排序 / 供应商 / 上游模型 / Key 下拉 / 状态 / 测试 ···）+「添加来源」（复用添加模型的来源与模型控件）→ 高级折叠。
+1. 落地一律走 PR，不直接推 main、不发版；PR 描述贴每个改动页面的截图（浅色、1280 宽，列表与弹框打开态各一张）。
+2. Hark 拉分支构建，用模拟数据逐页截图，与效果图左右对比，按下面清单逐条判定；全部通过后才合并、才发版。
+3. 验收清单：
+   - [ ] 导航顺序与 §3 一致
+   - [ ] 列表全部来自 `listRow()`，各页列对齐；供应商行有首字头像、健康条、模型数
+   - [ ] 页面底浅灰、内容在分组卡片里，组标题在卡片外
+   - [ ] 没有浏览器原生下拉外观；设置类数值是分段 + 自定义
+   - [ ] 没有常驻长说明，说明都在「?」提示里
+   - [ ] 弹框宽窄与 §2 一致；头尾不随内容滚动；Esc / 遮罩 / 关闭可用，有改动先确认
+   - [ ] 列表里没有展开 / 折叠；折叠只在弹框的「高级设置」
+   - [ ] 没有效果图以外的新控件，也没有少掉效果图里的元素
+   - [ ] 颜色只在 `:root` 与暗色块；JS / HTML 无尺寸数字；时间经过 `fmtTime()`
+   - [ ] `npm run check` 通过
 
-### 5.3 节点（效果图 08–09）
+## 5. 门禁（以测试为准）
 
-- 列表：名称；次要信息 = 角色 · IP · 最近同步（相对时间）；状态（在线 / 离线 / 宽限期内 / 待安装 / 已吊销）；同步次数。
-- 详情弹框：名称、角色（分段）、租约与宽限、供应商范围与模型范围（芯片）→ 运行状态（只读两列：节点 ID、同步、配置版本、IP、Token 掩码 + 显示/复制、常用模型）。尾：左吊销 / 删除，右安装命令 / 轮换 Token / 保存。
-- 一次性材料（安装命令、轮换后的 Token、后台密码）仍用单独弹框展示，只显示一次。
-
-### 5.4 统计（效果图 10）与设置（效果图 11）
-
-- 统计：顶部一条指标带（在线节点、节点累计调用与成功率、下发规模、配置同步），下方「模型使用分布」「节点分布」两张表。数据只来自节点上报，页头注明更新时间。
-- 设置：左侧分组锚点，右侧行清单（标题 + 一行说明 | 控件）；改动后底部浮出保存条。
-
-### 5.5 Full 独有页
-
-概览、接入信息不出新效果图，按本文 token 与组件改造：KPI 用指标带，不用卡片阴影；接入信息的复制项用普通输入框 + 复制按钮。
-
-## 6. 门禁（以测试为准，本文只列存在哪些）
-
-保留：零内联样式、零抽屉、零彩色左边框、单文件体积上限、边缘包总字节上限。
-新增：列表行唯一生成函数（§4.1）；JS / HTML 中不得出现 `px` 字面量；`app.css` 中除 `:root` 与暗色主题块外不得出现颜色字面量。
+零内联样式、零抽屉、零彩色左边框、单文件体积上限、边缘包总字节上限、列表行唯一生成函数、JS / HTML 无 `px` 字面量、颜色只在 `:root` 与暗色块。

diff --git a/AGENTS.md b/AGENTS.md
@@ -80,7 +80,7 @@
 | `CHANGELOG.md` | 每版改了什么，面向使用者 | 每次提交加到 `[Unreleased]` |
 | `docs/ADMIN_UI_BACKEND_CONTRACT.md` + `shared/contracts/admin-ui-backend.json` | 控制台 ↔ 后端的接口 | 改接口前先改 |
 | `docs/MULTI_AGENT_BLUEPRINT.md` + `internal/types/types.go` | Go 核心数据结构、包边界 | 改结构前先改 |
-| `docs/UI_DESIGN_SPEC.md` + `docs/ui-v2/`（效果图与落地分工，落地完成后删分工文件） | 界面规范与效果图 | 改界面模式时改 |
+| `docs/UI_DESIGN_SPEC.md` + `docs/ui-v2/mockups/` | 界面规范（含验收清单）与效果图，效果图是外观标准 | 改界面模式时改 |
 | `docs/SYSTEM_DESIGN_SPEC.md` | 三端架构、数据流 | 架构变了改 |
 | `docs/SECURITY_SPEC.md` | 鉴权、凭据、红线 | 安全相关变了改 |
 | `docs/TESTING_SPEC.md` | 测试分层、本机测试环境 | 测试方式变了改 |

diff --git a/CHANGELOG.md b/CHANGELOG.md
@@ -6,6 +6,10 @@
 
 ## [Unreleased]
 
+### Docs
+
+- **UI 规范 v2.1**：效果图成为外观唯一标准；供应商改用首字头像（8 组头像色 token）、分组卡片；设置类数值改为分段选择 + 自定义，下拉统一胶囊样式，长说明收进「?」提示；明确宽 / 窄弹框；新增验收清单，落地必须走 PR 并通过验收后再合并发版。
+
 ---
 
 ## [v20261128-01] - 2026-11-28
